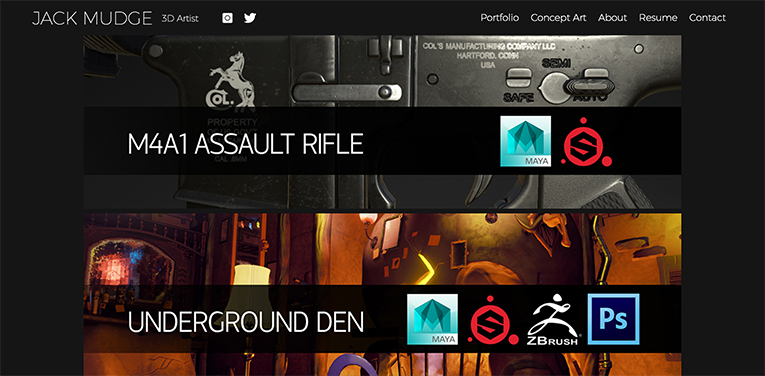
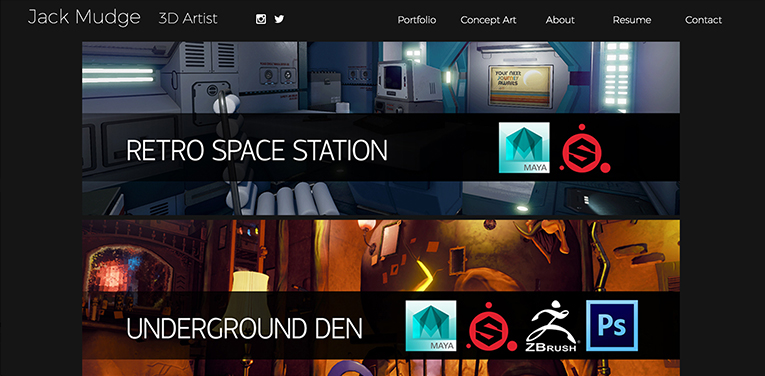
begin jacks site portfolio page

diff --git a/js/script.js b/js/script.js
@@ -1,23 +1,33 @@
 $( document ).ready(function() {
     console.log( "ready!" );
 
+//rollovers for icons
 
-/* Set the width of the side navigation to 250px and the left margin of the page content to 250px */
-function openNav() {
-    document.getElementById("mySidenav").style.width = "250px";
-    document.getElementById("main").style.marginLeft = "250px";
-}
+// ROLLOVER DESCRIPTOR FOR SOFTWARE IMAGES
+  $(".feature").mouseover((eventobj) => {
+    //grabs .iconimg and sets the following eventobj
+    //to occur on mouseover
 
-/* Set the width of the side navigation to 0 and the left margin of the page content to 0 */
-function closeNav() {
-    document.getElementById("mySidenav").style.width = "0";
-    document.getElementById("main").style.marginLeft = "0";
-}
+    $("#created-using").html(eventobj.target.alt)
+      //grabs p tag and changes innerhtml to the
+      //eventobj, what the element itself is, and the
+      //alt tag of that element 
+  })
+
+  $(".feature").mouseleave(()=>{
+
+    $("#created-using").html("")
+    //mouseing off of the same, setting
+    //to empty string
+  })
+
+
+//responsive Job title info
 
 var bio = {
     "jobtitle" : "Junior Front End Web Developer"
+};
 
-}
 $("#jobtitle").html(bio.jobtitle);
 
 
@@ -25,36 +35,35 @@ $("#jobtitle").html(bio.jobtitle);
 
 var portfolio = {
   "projects": [{
-        "mainimg": "img/jack2_small.jpg",
+        "mainimg": "img/jack1_small.jpg",
+        "rollimg" : "img/jack2_small.jpg",
         "name": "3D Artist Site",
         "for": "Jack Mudge",
         "morelink": "jackmudge.html",
-        "extlink": "http://robhern135.github.io/Jack-Mudge"
+        "extlink": "http://robhern135.github.io/Jack-Mudge",
+        "alttxt" : "Jack Mudge 3D Artist"
     }, {
         "mainimg": "img/resume1_small.png",
-        "name": "TEST TEST TEST",
+        "rollimg" : "img/resume2_small.png",
+        "name": "Responsive Resume",
         "for": "Udacity Nanodegree",
         "morelink": "responsiveresume.html",
         "extlink": "http://robhern135.github.io/responsive-resume"
     }, {
         "mainimg": "http://placekitten.com/1000/500",
+        "rollimg" : "http://placekitten.com/999/500",
         "name": "TEST TEST TEST",
         "for": "TEST",
         "morelink": "http://google.com",
         "extlink": "http://google.co.uk"
     }]
-}
+};
 
 var HTMLprojectStart = '<div class="project-box"></div>';
-var HTMLprojectMainImg = '<img src="%data%" />';
-//replace with:
-//<img src="img/jack1_small.jpg"
-//      onmouseover="this.src='img/jack2_small.jpg'"
-//      onmouseout="this.src='img/jack1_small.jpg'" 
-//      alt ="Jack Mudge - 3D Artist Portfolio Site"/>
+var HTMLprojectMainImg = '<img src="%data%" onmouseover="this.src=\'%dataroll%\'" onmouseout="this.src=\'%datamain%\'" alt ="%alttxt%"/>';
 var HTMLprojectName = '<h3>%data%</h3>';
 var HTMLprojectFor = '<h4 class="handwritten">%data%</h4>';
-var HTMLprojectMorelink = '<p><a href="%data%">Learn More</a>  |  ';
+var HTMLprojectMorelink = '<p><a href="%data%">See More</a>  |  ';
 var HTMLprojectExtlink = '<a href="%data%">View</a></p>';
 
 
@@ -62,7 +71,7 @@ portfolio.display = function() {
 
   for (var p = 0; p < portfolio.projects.length; p++) {
     $("#project-container").append(HTMLprojectStart);
-    var formattedprojectMainImg = HTMLprojectMainImg.replace("%data%", portfolio.projects[p].mainimg);
+    var formattedprojectMainImg = HTMLprojectMainImg.replace("%data%", portfolio.projects[p].mainimg).replace("%dataroll%",portfolio.projects[p].rollimg).replace("%alttxt%", portfolio.projects[p].alttxt).replace('%datamain%', portfolio.projects[p].mainimg);
     $(".project-box:last").append(formattedprojectMainImg);
     var formattedprojectName = HTMLprojectName.replace("%data%", portfolio.projects[p].name);
     $(".project-box:last").append(formattedprojectName);
@@ -77,4 +86,7 @@ portfolio.display = function() {
 
 portfolio.display() ;
 
+
+
+// PUT EVERYTHING ABOVE HERE
 });

diff --git a/jackmudge.html b/jackmudge.html
@@ -66,17 +66,27 @@
         </ul>
 		</div>
 	</header>
-	<div id="project-container">
-	  <!--<div class="project-box">
-		  <img src="img/jack1_small.jpg"
-		  onmouseover="this.src='img/jack2_small.jpg'"
-      onmouseout="this.src='img/jack1_small.jpg'" 
-		  alt ="Jack Mudge - 3D Artist Portfolio Site"/>
-		<h3>3D Artist Site</h3>
-		<h4 class="handwritten">Jack Mudge</h4>
-		<p><a href="">Learn More</a>  |  <a href="">View</a></p>
-	  </div>-->
-	</div>
+	
+  <div id="portfolio-piece-container">
+    <div class=portfolio-image-container>
+      <img src="img/portfolio/jack.gif"/>
+    </div>
+    <div class="description-container">
+      <h1>Artist Portfolio Site</h1><h2 class="handwritten">Jack Mudge - 3D Artist</h2>
+      <h3 class="handwritten">Created using: </h3><p id="created-using"></p>
+      <ul class="icons-container">
+      <li class="feature"><img id="featureimg" src="img/features/html5.png" alt="HTML5"></li>
+      <li class="feature"><img id="featureimg" src="img/features/css3.png" alt="CSS3"></li>
+      <li class="feature"><img id="featureimg" src="img/features/js5.png" alt="JS5"></li>
+      <li class="feature"><img id="featureimg" src="img/features/jq.png" alt="jQuery"></li>
+      <li class="feature"><img id="featureimg" src="img/features/bootstrap.png" alt="Bootstrap"></li>
+    </ul>
+    </div>
+  </div>
+
+
+
+
 </div>
 
 

diff --git a/css/style.css b/css/style.css
@@ -193,8 +193,64 @@ header h2 {
 }
 
 .left-align {
-	text-align:
+	text-align: left;
 }
+
+#portfolio-piece-container {
+  width: 100%;
+  margin-top: 50px;
+}
+
+.description-container {
+  width: 100%;
+  margin: auto;
+}
+
+.description-container h1 {
+  color: #94a4b1;
+  font-size: 60px;
+  text-align: center;
+  width: 100%;
+}
+
+.description-container h2 {
+  font-size: 30px;
+  text-align: center;
+  color: #322214;
+  width: 100%;
+}
+
+.description-container h3 {
+  margin-top: 30px;
+  margin-bottom: 0px;
+  font-size: 20px;
+  display: inline;
+}
+
+#created-using {
+  margin-top: 30px;
+  margin-bottom: 0px;
+  font-size: 20px;
+  display: inline;
+}
+
+.icons-container { 
+  display: flex;
+  flex-wrap: wrap;
+  width: 100%;
+  padding: 10px 10px 0px 10px;
+
+}
+
+.feature {
+  width: 10%;
+  margin: 10px;
+  padding: 10px;
+  list-style: none;
+  background-color: #94a4b1;
+  border: black 2px solid;
+}
+/*MEDIA QUERIES START HERE*/
 
 @media only screen and (max-width: 730px) {
   .icon-container,
